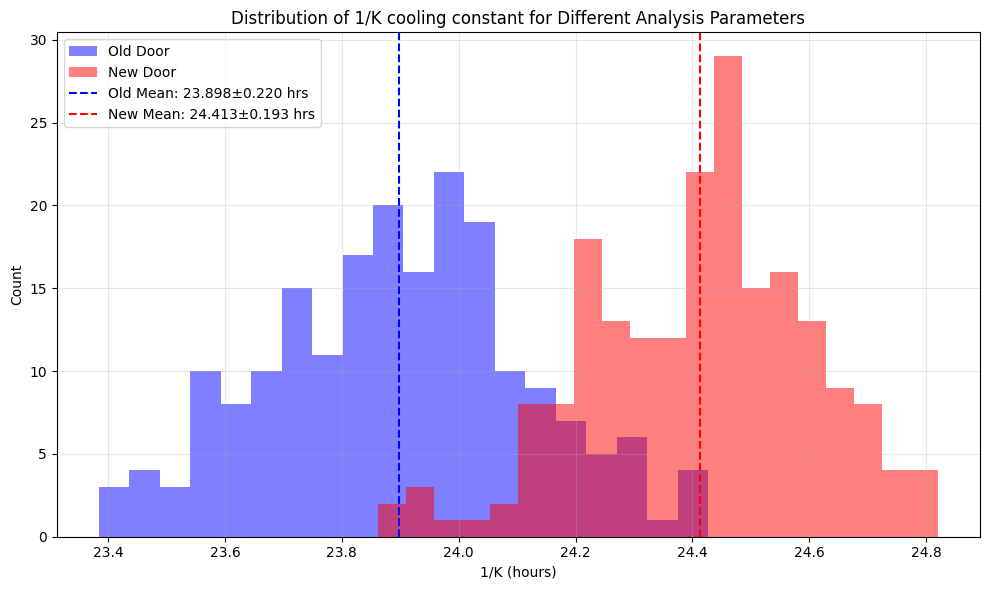
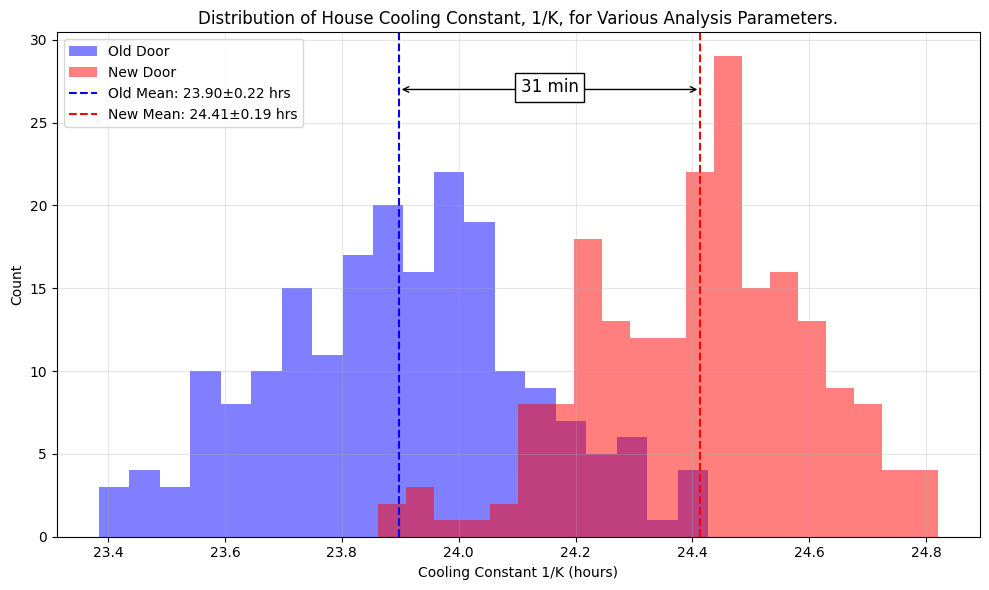
Basically complete blog post

diff --git a/_posts/2025-04-04-new_door_thermo.md b/_posts/2025-04-04-new_door_thermo.md
@@ -12,7 +12,7 @@ image: /assets/images/new_door_thermo/cooling_constant_distribution.png
 
 ## Abstract
 
-Herein I quantify the thermal effect of replacing the front door of my house.  I acquired data with two temperature sensors I built using ESP32 microcontrollers and deployed inside and outside the house.  Two weeks of temperature data were acquired both before and after the door replacement.  The relative overnight cooling rates inside and outside the house, in the absence of artificial heat sources, are compared to Newton's Law of Cooling, i.e. the rate of indoor temperature decrease should be proportional to the temperature difference between the inside and outside of the house.  This basic analysis indicates that the cooling timescale of the house did increase with the replacement of the door, as expected.  However, this analysis also uncovers a more complex inside air temperature relaxation profile, presumably because inside air temperature is influenced both by conductive cooling from the house walls as well as from air leaking directly from the outside.  In order to address this a model is constructed that dynamically couples the indoor and outdoor air temperatures with an (unmeasured) temperature of the walls of the house.  Fitting this model to the data yields best-fit cooling constants for this system both before and after door replacement that acceptably capture the house cooling dynamics; both wall conduction and leaks of outside air.  These fits to the house cooling system indicate that replacement of the door increased the cooling time constant of the house by as much as 10%: from 26 to 28 hours, also the impact of air leaks was substantially reduced.
+Herein I quantify the thermal effect of replacing the front door of my house.  I acquired data with two temperature sensors I built using ESP32 microcontrollers and deployed inside and outside the house.  Two weeks of temperature data were acquired both before and after the door replacement.  The relative overnight cooling rates inside and outside the house, in the absence of artificial heat sources, are compared to Newton's Law of Cooling, i.e. that the rate of indoor temperature decrease is proportional to the temperature difference between the inside and outside of the house.  This basic analysis indicates that the cooling timescale of the house is about 24 hours and did increase with the replacement of the door, as expected, by about 30 minutes or 2%.  However, this analysis also uncovers a more complex inside air temperature relaxation profile, presumably because inside air temperature is influenced both by conductive cooling from the house walls as well as from air leaking directly from the outside.  In order to address this a model is constructed that dynamically couples the indoor and outdoor air temperatures with an (unmeasured) temperature of the walls of the house.  Fitting this model to the data yields best-fit cooling constants for this system both before and after door replacement that acceptably capture the house cooling dynamics; both wall conduction and leaks of outside air.  These fits to the house cooling system indicate that replacement of the door increased the cooling time constant of the house by as much as 10%: from 26 to 28 hours, also the impact of air leaks was substantially reduced.  The data and analysis details for this blog post are in a [github repository](https://github.com/jdsalmonson/temperature_sensor_esp32_mcp9808/tree/main).
 
 ---
 
@@ -22,7 +22,7 @@ Herein I quantify the thermal effect of replacing the front door of my house.  I
 
 ## Data Collection
 
-In anticipation of a long overdue replacement of the antique (estimated 1860's) front door to my house with a modern, weatherproof version, I constructed a couple basic temperature sensors.  To do this I used a couple of extra [XIAO ESP32S3](https://www.seeedstudio.com/XIAO-ESP32S3-p-5627.html?srsltid=AfmBOorm6VqDA1EE2GMdlkGD49jS8rrfBPsX4YdDZpzPoyrdKdV7dI3O) microcontrollers that I had laying around.  I've come to like the [ESP-IDF](https://github.com/espressif/esp-idf) development framework for programming the ESP32 family of chips.  The microcontroller interfaces with an MCP9808 temperature sensor over I<sup>2</sup>C and makes the data available by running a webserver on my WiFi network.  It queries the temperature sensor every second with a ```read_temperature(&current_temperature)``` call.  The webserver can receive two URI requests; one for the temperature and another for WiFi radio connection signal strength.  Each device runs a mDNS service that allows it to be found on my network with the name ```temp-sensor-1``` or ```temp-sensor-2``` respectively.
+In anticipation of a long overdue replacement of the antique (estimated 1860's) front door to my house with a modern, weatherproof model, I constructed a couple basic temperature sensors.  To do this I used a couple of extra [XIAO ESP32S3](https://www.seeedstudio.com/XIAO-ESP32S3-p-5627.html?srsltid=AfmBOorm6VqDA1EE2GMdlkGD49jS8rrfBPsX4YdDZpzPoyrdKdV7dI3O) microcontrollers that I had laying around.  I've come to like the [ESP-IDF](https://github.com/espressif/esp-idf) development framework for programming the ESP32 family of chips.  The code to program the ESP32S3 is [here](https://github.com/jdsalmonson/temperature_sensor_esp32_mcp9808/tree/main/esp32_wifi).  The microcontroller interfaces with an MCP9808 temperature sensor over I<span style="vertical-align: super;">2</span>C and makes the data available by running a webserver on my WiFi network.  It queries the temperature sensor every second with a [```read_temperature(&current_temperature)```](https://github.com/jdsalmonson/temperature_sensor_esp32_mcp9808/blob/main/esp32_wifi/main/main.c#L80) call.  The webserver can receive two URI requests; one for the temperature and another for WiFi radio connection signal strength.  Each device runs a mDNS service that allows it to be found on my network with the name ```temp-sensor-1``` or ```temp-sensor-2``` respectively.  I then run a python script [```temperature_logger.py```](https://github.com/jdsalmonson/temperature_sensor_esp32_mcp9808/blob/main/scripts/temperature_logger.py) on a computer that queries and logs the temperature from each device.
 
 | Temperature sensors |
 |:--:|
@@ -74,7 +74,7 @@ The temperature history is filtered to select the nightly segments of time for w
   </tr>
 </table>
 
-There is some uncertainty in the fit of the cooling constant depending how much of the early rapid-cooling phase to include, how much data before or after sunsrise should be included and since the cooling rate, dT$_i$/dt, is a derivative which can be noisy, the amount of smoothing applied with make a difference.  For that reason I model the data over an ensemble of variations of these parameters, specifically:
+There is some uncertainty in the fit of the cooling constant depending how much of the early rapid-cooling phase to include, how much data before or after sunsrise should be included and since the cooling rate, $dT_{i}/dt$, is a derivative which can be noisy, the amount of smoothing applied with make a difference.  For that reason I model the data over an ensemble of variations of these parameters, specifically:
 
 - initial time to skip: 60 to 80 minutes
 - end time relative to sunrise: -30 to 30 minutes
@@ -97,14 +97,14 @@ An ensemble of 200 fits are constructed for both the old and new door data, rand
   </tr>
   <tr>
     <td colspan="2" style="border: 1px solid black; text-align: center;">
-      <em>The distribution of fits of the cooling constant for both the Old and New door gives a distribution that is significantly longer for the Old door than for the New door (Top figure).  Plotting the difference between these cooling curves (Bottom figure) gives a mean difference of roughly 0.5 ± 0.12 hours (30 ± 7 minutes).  Note that, although I'm calculating a standard deviation, this distribution has a p-value of 0.0 and so is not normal.  This suggests that replacement of the old door has increased the 24 hour cooling time by roughly a half hour, or 2%.  This is a non-negligible increase.</em>
+      <em>The distribution of fits of the cooling constant for both the Old and New door gives a distribution that is significantly longer for the Old door than for the New door (Left figure).  Plotting the difference between these cooling curves (Right figure) gives a mean difference of roughly 0.52 ± 0.12 hours (31 ± 7 minutes).  Note that, although I'm calculating a standard deviation, this distribution has a p-value of 0.0 and so is not normal.  This suggests that replacement of the old door has increased the 24 hour cooling time by roughly a half hour, or 2%.  This is a small, but non-negligible increase.</em>
     </td>
   </tr>
 </table>
 
 #### Time Dependent Cooling
 
-As previously mentioned, Newton's Cooling Law doesn't fully explain the data.  On a given night, the rate of cooling tends to decrease a little faster than the decrease in the temperature difference between the inside and outside as can be seen from the [cooling segments data](#cooling-data-segments).
+As previously mentioned, Newton's Cooling Law doesn't fully explain the data.  On a given night, the rate of cooling tends to decrease a little faster than the decrease in the temperature difference between the inside and outside as can be seen from the [cooling segments data](#cooling-data-segments).  So we can attempt to fit a more elaborate cooling law with a time dependence to the cooling rate
 
 $$
 \begin{equation}
@@ -112,7 +112,7 @@ $$
 \end{equation}
 $$
 
-where $\tau$ is the time in the cooling segment.  We fit this function from the beginning of each cooling segment, i.e. $\tau = t$, and also from the end of the segment, i.e. $\tau = t\_1 - t$ where $t\_1$ is the last time in the segment.  As with the previous time independent cooling law fit, an ensemble of 200 fits of this function are performed, varying the segment start and end time and resampling window.  The resulting histograms are plotted below.  A key observation is that when fitting this temporally decaying function from the start of the segment (so $K$ is representative of the decay constant at the beginnings of the segments) the decay constant is shorter, $1/K ~ 21$ hours, than the constant-time fit above; $1/K ~ 24$ hours.  Also, when fitting from the end of the segment, when the cooling rate tends to be lowest, the decay constant is significantly longer; $1/K ~ 29$ hours.  
+where $\tau$ is the time within the cooling segment.  We fit this function from the beginning of each cooling segment, i.e. $\tau = t$, and also from the end of the segment, i.e. $\tau = t\\_1 - t$ where $t\\_1$ is the last time in the segment.  As with the previous time independent cooling law fit, an ensemble of 200 fits of this function are performed, varying the segment start and end time and resampling window.  The resulting histograms are plotted below.  A key observation is that when fitting this temporally decaying function from the start of the segment (so $K$ is representative of the decay constant at the beginnings of the segments) the decay constant is shorter, $1/K \approx 21$ hours, than the constant-time fit above; $1/K \approx 24$ hours.  Also, when fitting from the end of the segment, when the cooling rate tends to be lowest, the decay constant is significantly longer; $1/K \approx 29$ hours.  
 
 The key take-away is that the observation of the longer decay constant in New door as compared to the Old door persists in these data.  Fitting the cooling time decay from the beginning of the segments gives $1/K$ of 20.8 and 21.5 hours for the Old and New doors respectively, and measuring from the end of the pulse gives 28.4 and 29.1 hours.  This is consistent with the previous result that the cooling timescale of the house was increased by roughly 30 minutes by replacing the Old door.  
 
@@ -135,7 +135,7 @@ The cooling rate time decay constant, $b$, doesn't exhibit an offset between the
   </tr>
     <tr>
     <td colspan="2" style="border: 1px solid black; text-align: center;">
-      <em>Time-dependent cooling constants.  The key take-away is that the cooling timescale $1/K$ for these fits shows the same difference between the Old and New door as observed in the time independent fit; the New door's cooling constant is roughly 30 minutes longer than that of the Old door.</em>
+      <em>Time-dependent cooling constants.  The key take-away is that the cooling timescale 1/K for these fits shows the same difference between the Old and New door as observed in the time independent fit; the New door's cooling constant is roughly 30 minutes longer than that of the Old door.</em>
     </td>
   </tr>
 </table>
@@ -164,7 +164,7 @@ $$
 
  The walls of the house will have signficant heat capacity and thus their temperature, $T_w$, will change the most slowly.  The indoor air temperature, $T_i$, has relatively small heat capacity and will react strongly to contact with the walls and leakage of outside air.  Our goal is to indirectly infer the cooling of the wall as well as the mixing of leaked outside air solely from the observations of the inside air temperature.
 
- The model is as follows: when the furnace it turned off at night it is assumed that the walls of the house and the air inside are at the same temperature, i.e. $T_w(t=0) = T_i(t=0)$.  The inside air temperature, with its relatively small heat capacity, will cool faster than the wall due to cool outside air leaking into the house via the $K_2$ term.  This relatively rapid cool down of the inside aire due to leakage with eventually be offset by the now warmer walls heating the air via the $K_1$ term.  The walls of the house, with their large heat capacity, will cool slowly by contact with the outside via the $K_3$ term, which is the dominant term of the system.  Since the heat capacity of the inside air is much, much smaller than that of the house, we can safely neglect the inside air heating the walls, so we set
+ The model is as follows: when the furnace it turned off at night it is assumed that the walls of the house and the air inside are at the same temperature, i.e. $T_w(t=0) = T_i(t=0)$.  The inside air temperature, with its relatively small heat capacity, will cool faster than the wall due to cool outside air leaking into the house via the $K_2$ term.  This relatively rapid cool down of the inside air due to leakage will eventually be offset by the now warmer walls heating the air via the $K_1$ term.  The walls of the house, with their large heat capacity, will cool slowly by contact with the outside via the $K_3$ term, which is the dominant term of the system.  Since the heat capacity of the inside air is much, much smaller than that of the house, we can safely neglect the inside air heating the walls, so we set
 
  $$
  K_4 = 0 \ \ .
@@ -189,7 +189,7 @@ As such we have a three-parameter model for the cooling of the inside air, $T_i$
   </tr>
     <tr>
     <td colspan="2" style="border: 1px solid black; text-align: center;">
-      <em>Optimization of the K<sub>1</sub>, K<sub>2</sub>, and K<sub>3</sub> parameters demonstrated here by rastering through a grid of possible values for K<sub>1</sub>, K<sub>2</sub>.  At each of these points the optimal solution for K<sub>3</sub> is iteratively found to maximize the coefficient of determination, R<sup>2</sup>.  As such we get some idea of the shape of the solution manifold.  All K constants have units of 1/hour.</em>
+      <em>Optimization of the K<span style="vertical-align: sub;">1</span>, K<span style="vertical-align: sub;">2</span>, and K<span style="vertical-align: sub;">3</span> parameters demonstrated here by rastering through a grid of possible values for K<span style="vertical-align: sub;">1</span>, K<span style="vertical-align: sub;">2</span>.  At each of these points the optimal solution for K<span style="vertical-align: sub;">3</span> is iteratively found to maximize the coefficient of determination, R<span style="vertical-align: super;">2</span>.  As such we get some idea of the shape of the solution manifold.  All K constants have units of 1/hour.</em>
     </td>
   </tr>
 </table>
@@ -213,21 +213,21 @@ As such we have a three-parameter model for the cooling of the inside air, $T_i$
   </tr>
   <tr>
     <td colspan="2" style="border: 1px solid black; text-align: center;">
-      <em>Similar to the <a href="#parametric-plot-linear-fit">parametric cooling figure</a> above, but instead of data, here are the solutions to the dynamical model for each evening's cooling segment.  The dashed line shows the 1/K<sub>3</sub> slope.  This illustrates how K<sub>3</sub>, that governs how fast the house walls cool due to the outside air, acts as an asymptotic limit to the cooling rate.  This is in contrast to the parameter K used to fit the mean cooling effect seen in the data, which is why the 1/K line goes thru the center of the data.  </em>
+      <em>Similar to the <a href="#parametric-plot-linear-fit">parametric cooling figure</a> above, but instead of data, here are the solutions to the dynamical model for each evening's cooling segment.  The dashed line shows the 1/K<span style="vertical-align: sub;">3</span> slope.  This illustrates how K<span style="vertical-align: sub;">3</span>, that governs how fast the house walls cool due to the outside air, acts as an asymptotic limit to the cooling rate.  This is in contrast to the parameter K used to fit the mean cooling effect seen in the data, which is why the 1/K line goes thru the center of the data.  </em>
     </td>
   </tr>
 </table>
 
 The resulting best-fit solutions are:
 
-| Parameter | Description | Old Door | New Door |
-|-----------|-------------|----------|----------|
-| K₁ (1/K₁) | warming of inside air by house walls | 0.8 (1.25 hours) | 0.5 (2 hours) |
-| K₂ (1/K₂) | leakage of outside air to the inside | 0.07 (14.3 hours) | 0.06 (16.6 hours) |
-| K₃ (1/K₃) | cooling of the house walls by oudside air | 0.0388 (25.8 hours) | 0.0356 (28.1 hours) |
+| Parameter [1/hour (hour)]| Description | Old Door | New Door |
+|--------------------------|-------------|----------|----------|
+| K₁ (1/K₁)                | warming of inside air by house walls | 0.8 (1.25 hours) | 0.5 (2 hours) |
+| K₂ (1/K₂)                | leakage of outside air to the inside | 0.07 (14.3 hours) | 0.06 (16.6 hours) |
+| K₃ (1/K₃)                | cooling of the house walls by outside air | 0.0388 (25.8 hours) | 0.0356 (28.1 hours) |
 
 
-
+<!--
 <table style="width:70%; border-collapse: collapse; border: 1px solid black;">
   <tr>
     <th style="border: 1px solid black; padding: 8px;">Parameter</th>
@@ -254,12 +254,10 @@ The resulting best-fit solutions are:
     <td style="border: 1px solid black; padding: 8px;">0.0356 (28.1 hours)</td>
   </tr>
 </table>
+-->
 
-A key point to note from the <a href="#parameter-optimization-results">parameter optimization results</a> is that the optima for both the Old and New door are relatively broad, with a wide region of values with coefficients of determination, $R^2$, near 1.0.  As such, we will only interpret these results qualitatively.  However, this analysis suggests a general locus of parameters that reasonably fit the data.  
 
-All three parameters, $K_1$, $K_2$, $K_3$ indicate weaker coupling after the New Door was installed (i.e. the inverse of each is a longer cooling timescale).  
-
-<table style="width:50%; border-collapse: collapse; border: 1px solid black;">
+<table style="width:100%; border-collapse: collapse; border: 1px solid black;">
   <tr>
     <td style="border: 1px solid black; text-align: center;">
       <a href="/assets/images/new_door_thermo/parametric_plot_dynamical_model_comparison.png">
@@ -270,18 +268,26 @@ All three parameters, $K_1$, $K_2$, $K_3$ indicate weaker coupling after the New
   </tr>
   <tr>
     <td style="border: 1px solid black; text-align: center;">
-      <em>For reference, the dynamical cooling solutions for both the Old and New Doors along with their respective 1/K<sub>3</sub> parameter fits.  This highlights how subtle the difference between the Old and New Door solutions is.</em>
+      <em>For reference, the dynamical cooling solutions for both the Old and New Doors along with their respective 1/K<span style="vertical-align: sub;">3</span> parameter fits.  This highlights how subtle the difference between the Old (1/K<span style="vertical-align: sub;">3</span> = 25.8 hours) and New (1/K<span style="vertical-align: sub;">3</span> = 28.1 hours) Door solutions is.</em>
     </td>
   </tr>
 </table>
 
+It is a heartening result that we were able to find solutions of this dynamical system that are consistent with the hypothesized interaction of inside and outside air with the walls of the house.  The [plots of these solutions on top of the data](#cooling-data-segments-with-cooling-solutions) (below) show generally good agreement.  As such the obtained values of the cooling constants $K_1$, $K_2$, $K_3$ should give some insight into the cooling dynamics.  A key point to note from the <a href="#parameter-optimization-results">parameter optimization results</a> is that the optima for both the Old and New door are relatively broad, with a wide region of values with coefficients of determination, $R^2$, near 1.0.  As such, we will only interpret these results qualitatively.  However, again, this analysis suggests a general locus of parameters that reasonably fit the data.  
+
+All three parameters, $K_1$, $K_2$, $K_3$ indicate weaker coupling after the New Door was installed (i.e. the inverse of each is a longer cooling timescale).  As such, rather than specifying a particular cooling process having been altered by the door replacement, the fits suggest that all such cooling processes were reduced.  One wouldn't expect that $K_1$, the rate at which the house walls warm the inside air, to change much with the replacement of the door, for instance, however the best fit parameters changed by almost a factor of 2.  However, we note that the <a href="#parameter-optimization-results">parameter optimization plots</a> show a relatively flat (i.e. weak) sensitivity to $K_1$, so one could hypothesize a fixed value $K_1$ both before and after door replacement and test how that affects the solution of the other parameters.  Such elaborations in analysis would deserve a larger, more systematically careful dataset than the one acquired for this study, and so we forgo further such analysis here.
+
+#### Summary
+
+We have satisfactorily acheived the goal of measuring and quantifying the cooling rate of my house both before and after the replacement of an antique Old Door with a New modern one.  The empirical result that the cooling timescale from Newton's Law for the inside air temperature of the house is about 24 hours and increased by about 30 minutes with the replacement of the door appears to be robust, both when considering a simple, constant cooling rate and when a time dependent rate is employed to capture the extraneous cooling behavior.  Further, we hypothesized a dynamical model of both the inside and outside air interacting with the solid walls of the house as a way to explain the more complex cooling evolution seen in the data.  This model qualitatively captures the cooling rate of the inside air -- both the early, rapid cooling presumably due to outside air leaking in, as well as the gradual decrease in this cooling rate throughout the night.  To pursue this line of study further one would want to gather more data, including measurements of the wall temperature, to more rigorously test this model.
+
 ___
-Reference:
+#### Reference
 
 - [temperature_sensor_esp32_mcp9808](https://github.com/jdsalmonson/temperature_sensor_esp32_mcp9808) - Repository of data and analysis for this notebook
 
 ---
-Appendix
+#### Figure Appendix
 
 <!-- <a name="cooling-data-segments"></a> -->
 ### Cooling Data Segments
@@ -303,7 +309,7 @@ Appendix
   </tr>
   <tr>
     <td colspan="2" style="border: 1px solid black; text-align: center;">
-      <em>Comparison of cooling data before (left) and after (right) door replacement.  The left plot of each pair is simply the raw temperature data from each sensor.  On the right plot of each pair, the data excluded from the fit is dashed; specifically the first 60 minutes of cooling and data after (date specific) sunrise.  The cooling (magenta) and temperature difference (black) curves are scaled by the fit to give intuition for how good it is.  A careful eye will notice that the cooling rate (magenta) tends to decrease slightly faster than the temperature difference (black) over the course of the night.</em>
+      <em>Comparison of cooling data before (left) and after (right) door replacement.  The left plot of each pair is simply the raw temperature data from each sensor.  On the right plot of each pair, the data excluded from the fit is dashed; specifically the first 60 minutes of cooling and data after (date specific) sunrise.  The cooling (magenta) and temperature difference (black) curves are scaled by the fit to give intuition for how good it is.  A careful eye will notice that the cooling rate (magenta) tends to decrease slightly faster than the temperature difference (black) over the course of the night.  This motivates the time dependent fit.</em>
     </td>
   </tr>
 </table>
